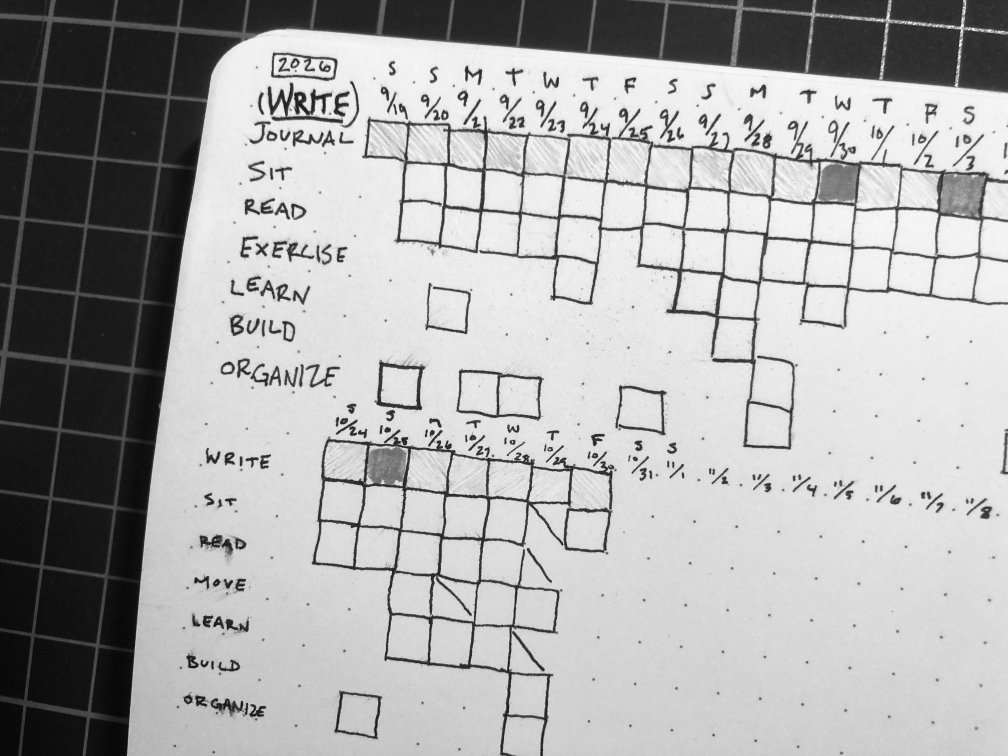
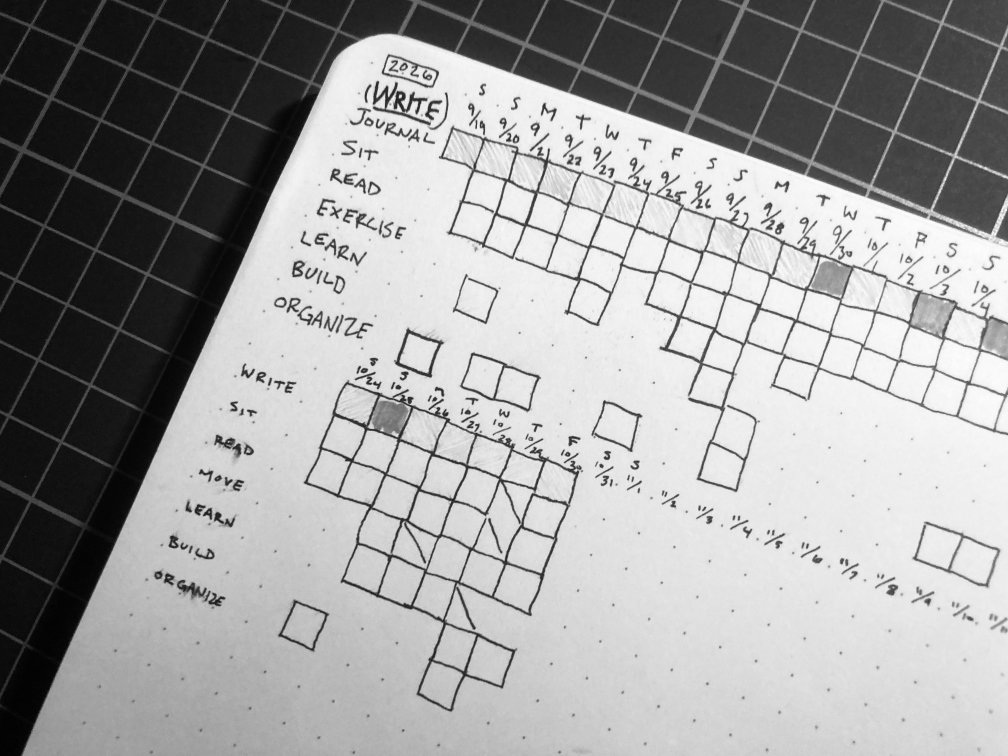
Switch image and fix glyph in 'façade'

diff --git a/src/pages/posts/lazy-bones.md b/src/pages/posts/lazy-bones.md
@@ -15,7 +15,7 @@ tags: ["kid calico", "AuDHD", "burnout", "recovery", "mental health"]
 
 Unsolidified habit fades away over time.
 
-I dream of living in adherence to at least some semblance of a self-enforced routine but as soon as I gain the agency, I lose all momentum. These days I've been bullet journaling, but even that can be a hollow facade, a way to placate my need for productivity by drawing little boxes on the last page of my journal.
+I dream of living in adherence to at least some semblance of a self-enforced routine but as soon as I gain the agency, I lose all momentum. These days I've been bullet journaling, but even that can be a hollow façade, a way to placate my need for productivity by drawing little boxes on the last page of my journal.
 
 Then some other unexpected happening of the day announces itself and I get diverted (or divert myself) from two or three (or all) of my desired habits.
 
